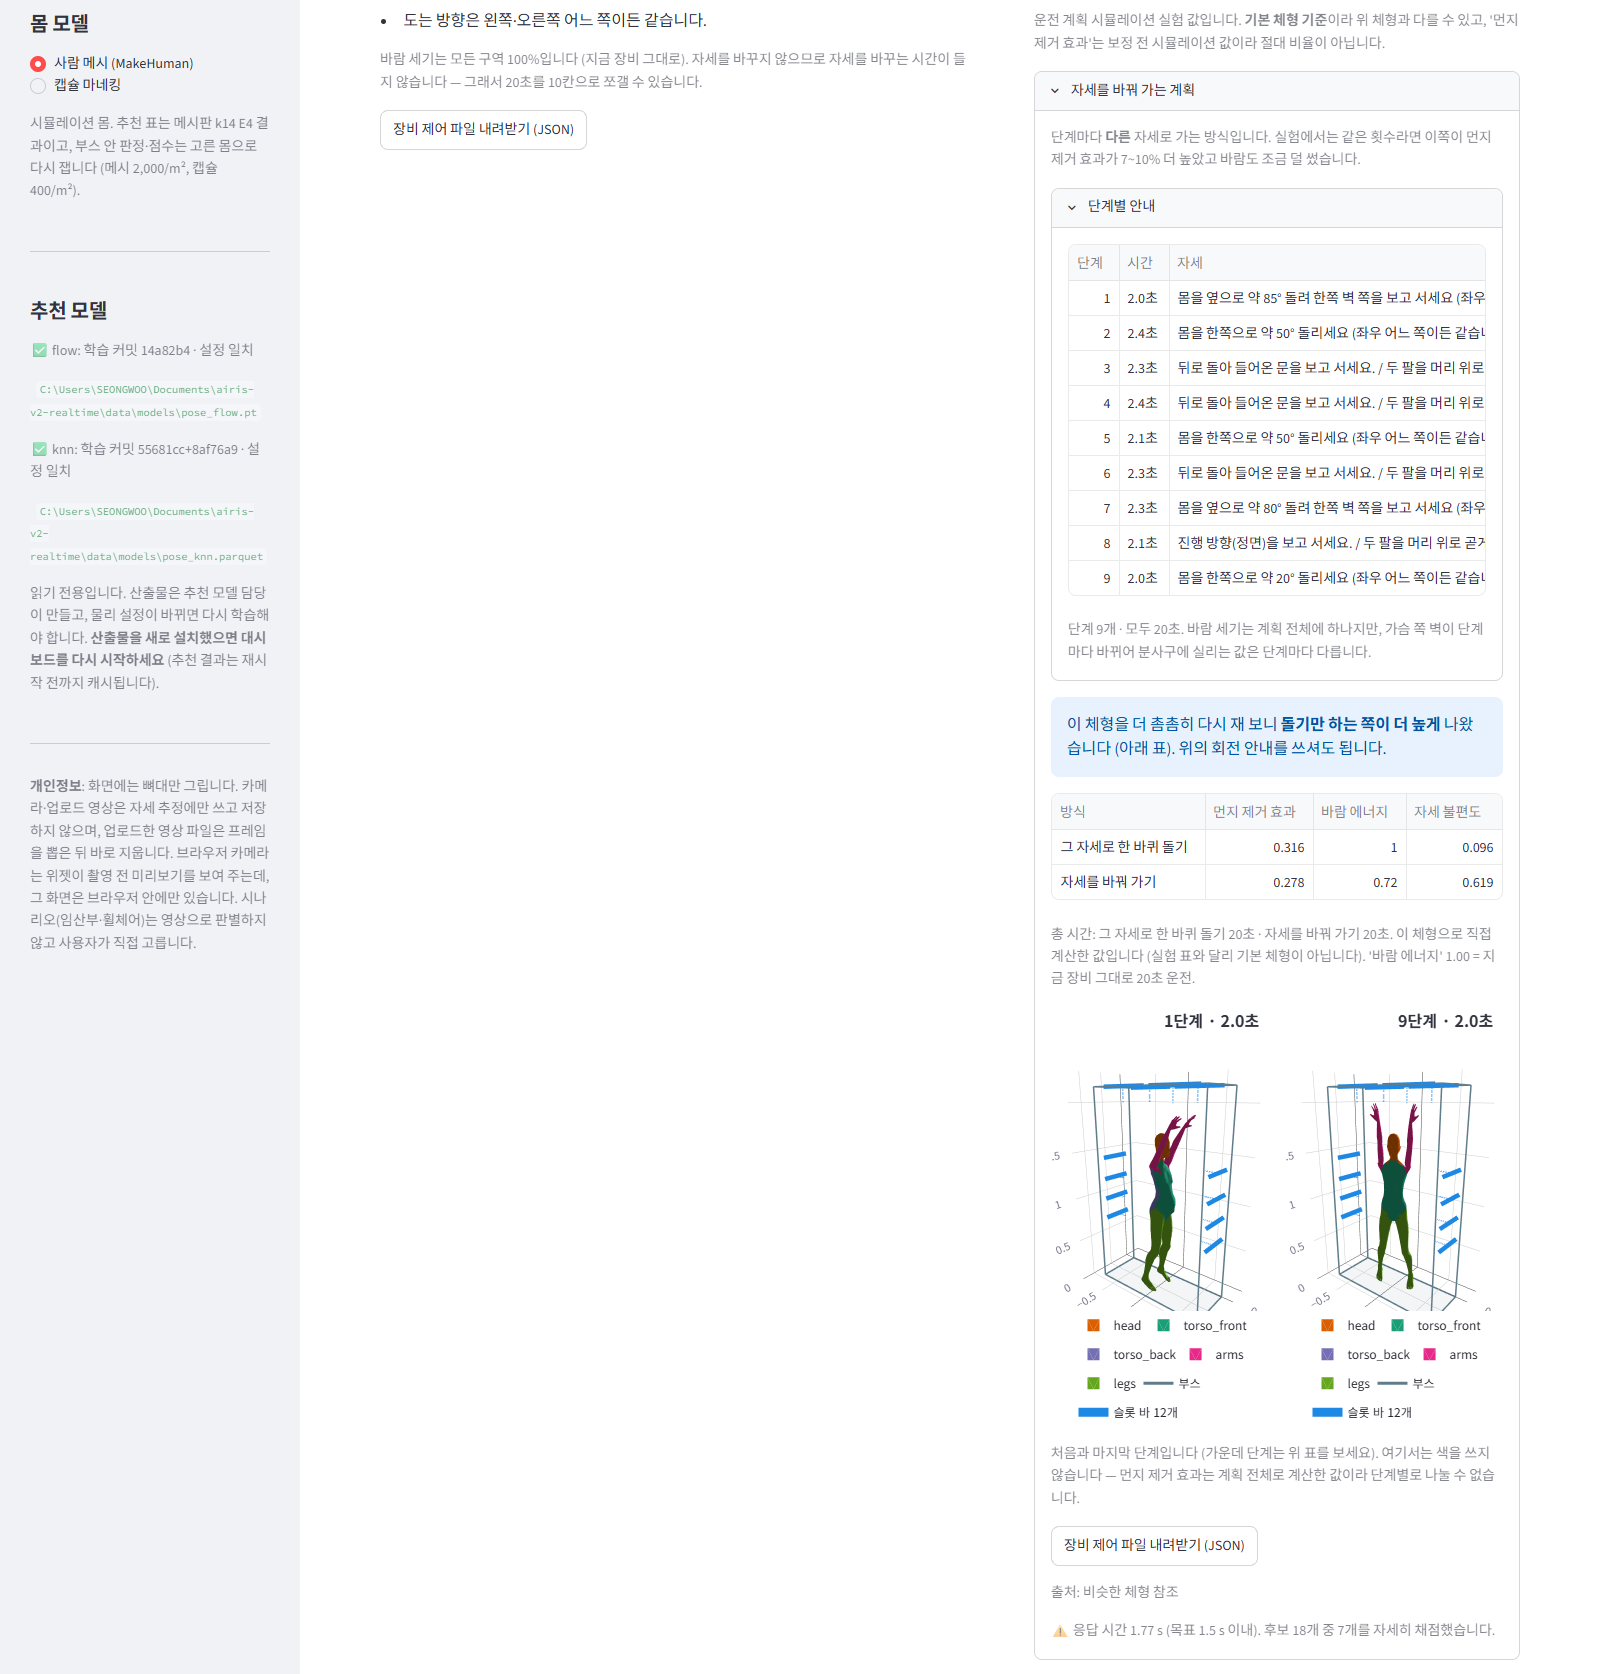
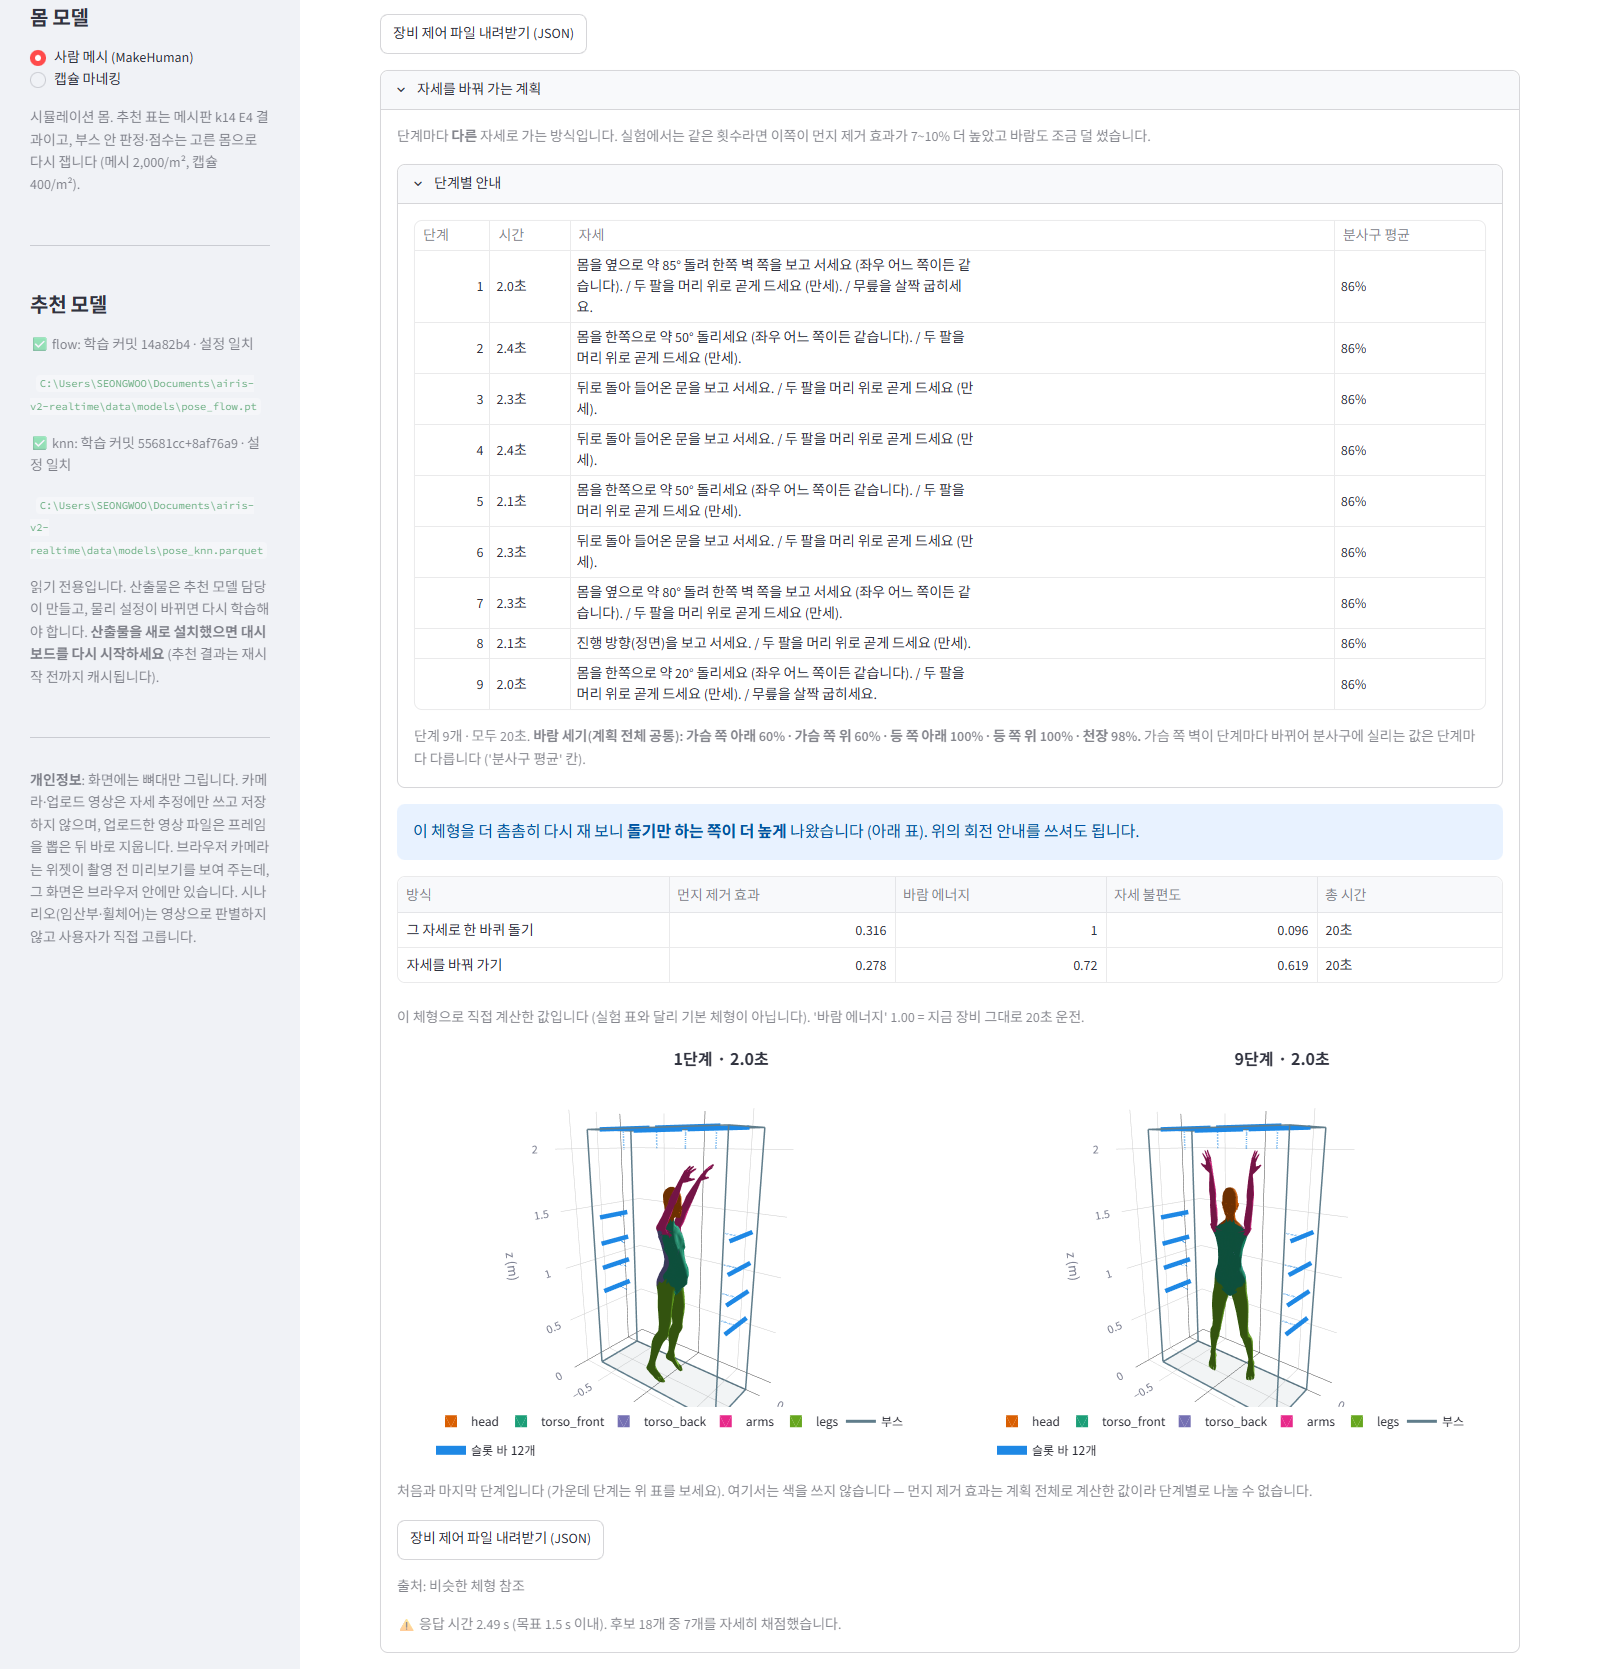
docs(presentation): 모드 B 캡처 4장 재촬영본(전체 너비 배치)

diff --git a/docs/presentation/README.md b/docs/presentation/README.md
@@ -89,7 +89,7 @@
 | screens/dashboard_2_recommendation.png | 사용자 유형 선택 + 추천 안내 + 개선율(그냥 서 있기 대비 +135% / 몸 돌리기 +57% / 만세 +109%) + 3D 두 장. **새 모델(k 1.4), 일반인 문구(#140·#141), 구성 D** | 응답 시간 0.96 s(CPU 혼잡 중에도 1.5 s 안). 기동 시 예열이 들어가 첫 사람도 기다리지 않음(#137). 발표에선 "약 1초" |
 | screens/dashboard_3_sidebar_model.png | AI 모델 상태 표시 — ✅ 설정 일치 (새 모델, 일반인 문구) | 완료 |
 | screens/dashboard_4_rotation.png | **회전 안내 화면(④-2)**: 제안 자세로 10칸(36°씩, 칸마다 2초, 총 20초) 돌기 안내 + 효과 표(안내 없이 통과 0.08 / 제조사 안내 0.267 / 제안 자세로 돌기 0.315) + 장비 제어 파일 내려받기 + **자세를 바꿔 가는 계획(모드 B)이 실제로 뜬 상태** | 수치는 운전 계획 실험 파일에서 읽음, 기본 체형 기준. 10-11 재촬영(#200) |
-| screens/dashboard_5_plan_b.png | **자세를 바꿔 가는 계획(모드 B)**: 단계 9개 표 + 두 방식 비교 + 처음·마지막 단계 3D + 장비 제어 파일. 출처 "비슷한 체형 참조", 후보 18개 중 7개를 자세히 채점 | 응답 시간은 **다른 계산과 겹친 상태**에서 찍은 값(조용한 CPU에서 재촬영 예정). 단계 표 '자세' 칸 문장이 오른쪽에서 잘림(배치 수정 예정) |
+| screens/dashboard_5_plan_b.png | **자세를 바꿔 가는 계획(모드 B)**: 단계 9개 표 + 두 방식 비교 + 처음·마지막 단계 3D + 장비 제어 파일. 출처 "비슷한 체형 참조", 후보 18개 중 7개를 자세히 채점 | 응답 시간은 **다른 계산과 겹친 상태**에서 찍은 값(조용한 CPU에서 재촬영 예정). 모드 B를 화면 전체 너비로 옮겨 단계 표 문장이 모두 보임(#203, 10-11 재촬영) |
 | screens/dashboard_5_plan_b_lower.png | 같은 화면(임산부) — 더 촘촘히 다시 재면 **돌기만 하는 쪽이 더 높아** 화면이 그 사실을 말하는 경우 | 고를 때(1,500/m²)와 표(2,000/m²)의 격자가 달라 생긴다 |
 | screens/dashboard_5_plan_b_rotation.png | 같은 화면(키 1.90 m) — **고정 회전 계획이 이긴 드문 경우**. 단계 표를 접고 위의 회전 안내를 쓰라고 안내, 출처 "고정 회전 계획" | 가짜 예측이 아니라 실제 체형 |
 | screens/particles_default_rec_mesh-default.gif | 정밀 입자 시뮬레이션 실제 실행 결과 (9초) | "실제 계산 결과"로 표기 |
